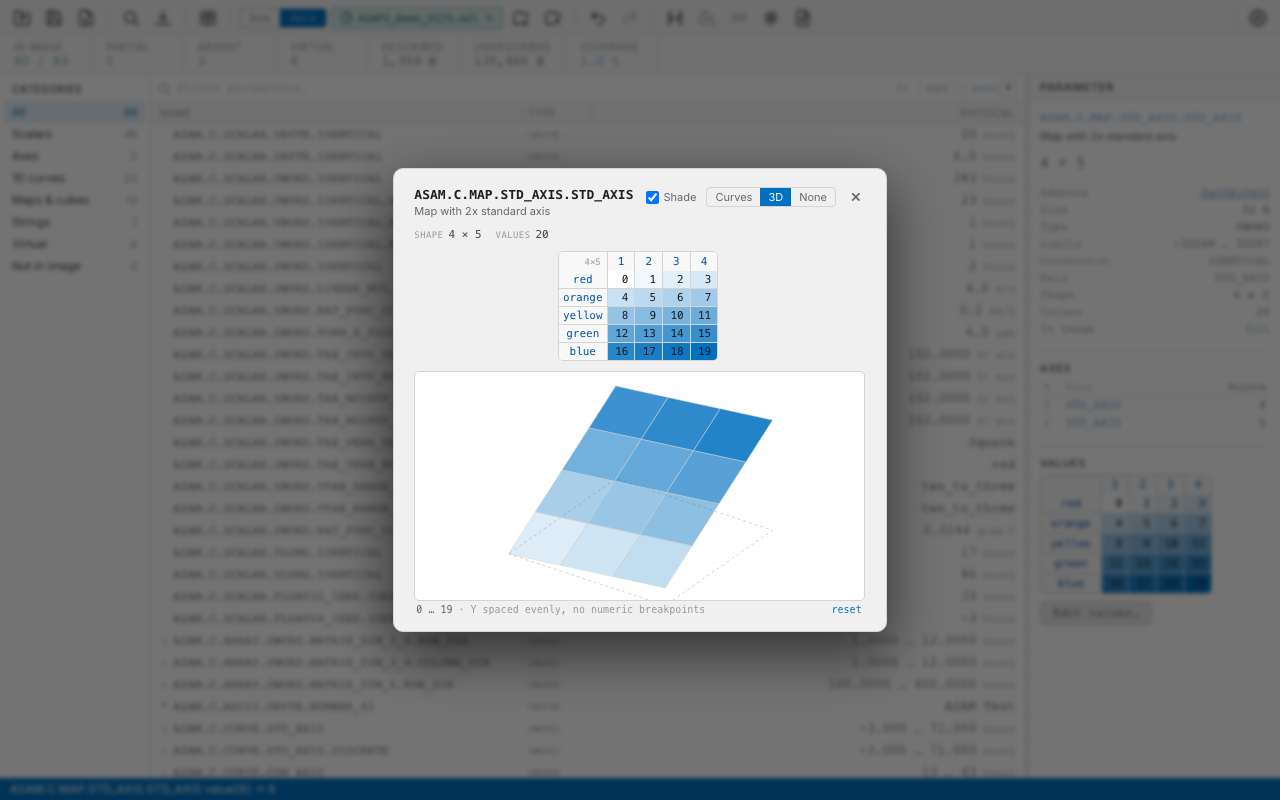
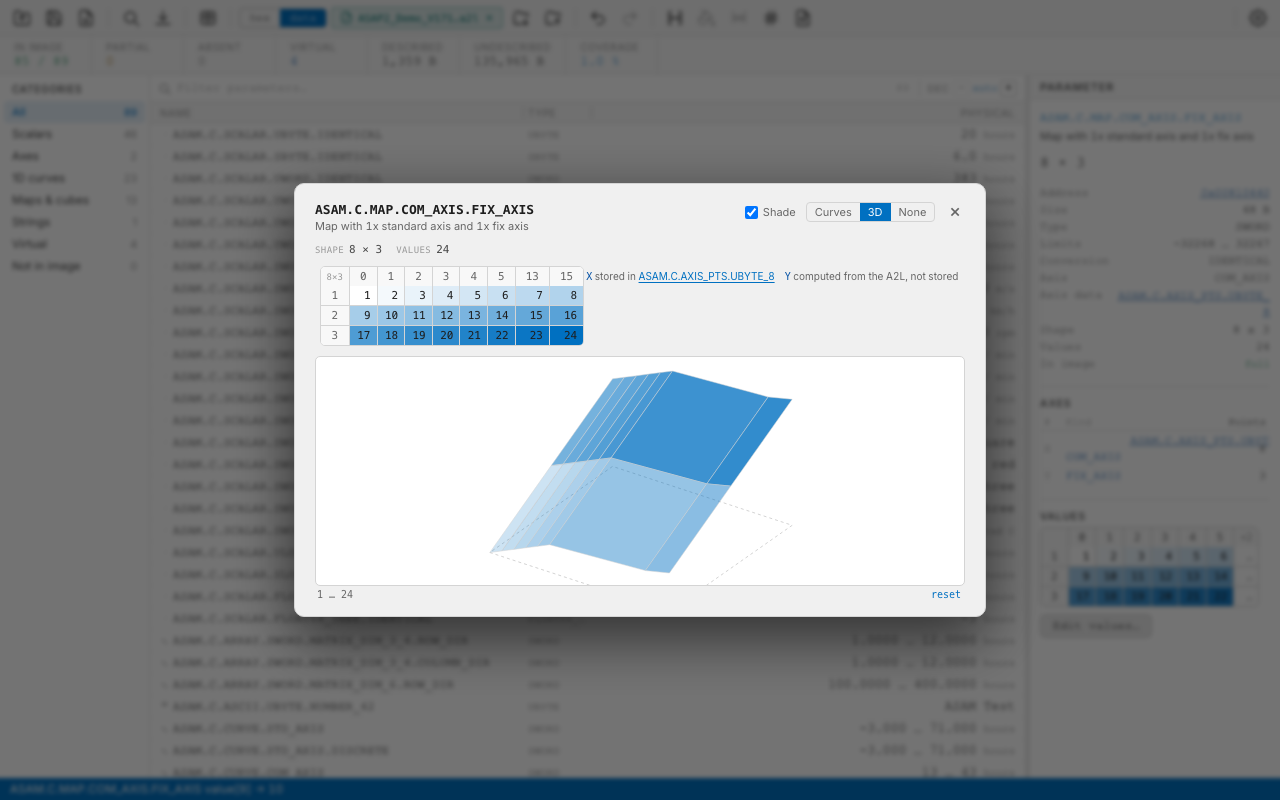
Use the COM_AXIS map for the surface screenshot
The 4x5 map holds a linear ramp, so its surface is a flat tilted plane — a
truthful render that shows the view exists without showing it is useful. This
one folds across both directions, and its X breakpoints run 0..5 then 13, 15,
so the bunched columns and the wide gap make the case for placing axes at their
true positions.

Changed region(s): [[0.2188, 0.1875, 0.7812, 0.8125], [0.8125, 0.625, 0.9688, 0.7812], [0.625, 0.3438, 0.6562, 0.375]]

diff --git a/docs/screenshots/harness.svelte b/docs/screenshots/harness.svelte
@@ -27,9 +27,12 @@
             status: 'ASAP2_Demo_V171.hex — 0x00810000' },
     data: { mode: 'data', sel: 'ASAM.C.CURVE.STD_AXIS',
             status: 'ASAM.C.CURVE.STD_AXIS → -3 … 71 hours' },
-    map:  { mode: 'data', sel: 'ASAM.C.MAP.STD_AXIS.STD_AXIS', editor: true,
+    // This map rather than the 4x5 one: its values fold across both
+    // directions and its X breakpoints run 0..5 then 13, 15, so the surface
+    // shows shape and true spacing instead of a flat ramp.
+    map:  { mode: 'data', sel: 'ASAM.C.MAP.COM_AXIS.FIX_AXIS', editor: true,
             below: '3D',
-            status: 'ASAM.C.MAP.STD_AXIS.STD_AXIS value[6] → 6' },
+            status: 'ASAM.C.MAP.COM_AXIS.FIX_AXIS value[9] → 10' },
   };
   const scene = SCENES[shot] ?? SCENES.data;
 

diff --git a/src-tauri/crates/a2l-data/tests/demo_file.rs b/src-tauri/crates/a2l-data/tests/demo_file.rs
@@ -1618,6 +1618,9 @@ fn dump_ui() {
     for n in [
         "ASAM.C.CURVE.STD_AXIS",
         "ASAM.C.MAP.STD_AXIS.STD_AXIS",
+        // Uneven breakpoints and a surface that folds, which is what makes the
+        // 3D view worth showing at all.
+        "ASAM.C.MAP.COM_AXIS.FIX_AXIS",
         "ASAM.C.CUBOID.ROW_DIR",
     ] {
         details.insert(n, decode::detail_for(&db, &img, n).expect(n));

diff --git a/README.md b/README.md
@@ -11,11 +11,11 @@ Load an **ASAM MCD-2 MC (A2L)** description alongside the image and it also beco
 <table>
 <tr>
 <td width="50%"><a href="docs/screenshots/hex.png"><img src="docs/screenshots/hex.png" alt="The hex view at the calibration block, with the segment list and data inspector panes open"></a></td>
-<td width="50%"><a href="docs/screenshots/map.png"><img src="docs/screenshots/map.png" alt="The map editor: a shaded 4x5 grid with verbal row labels, and the slice drawn as a 3D surface"></a></td>
+<td width="50%"><a href="docs/screenshots/map.png"><img src="docs/screenshots/map.png" alt="The map editor: a shaded 8x3 grid above the same slice drawn as a 3D surface, with the axes placed at their true breakpoints"></a></td>
 </tr>
 <tr>
 <td align="center"><em>Hex view — with the segment list and data inspector</em></td>
-<td align="center"><em>Map editor — shaded grid, verbal axis, 3D surface</em></td>
+<td align="center"><em>Map editor — shaded grid and the slice as a 3D surface</em></td>
 </tr>
 </table>
 

diff --git a/docs/screenshots/README.md b/docs/screenshots/README.md
@@ -38,7 +38,7 @@ numbers in them come from `ASAP2_Demo_V171.hex` read through
 |------|-------|
 | `hex.png` | The hex view at the calibration block, with both side panes open — the rest of the image is `FF` padding and says nothing |
 | `data.png` | The data view: coverage banner, categories, parameter table, and a curve with its plot |
-| `map.png` | The map editor: shaded grid, verbal row labels, and the family-of-curves plot |
+| `map.png` | The map editor: shaded grid above the slice as a 3D surface. Uses the COM_AXIS map because its breakpoints are uneven and its values fold, so the surface shows shape and true spacing rather than a flat ramp |
 
 Add a scene by extending `SCENES` in `harness.svelte` and the `for shot in …`
 loop in `capture.sh`.
